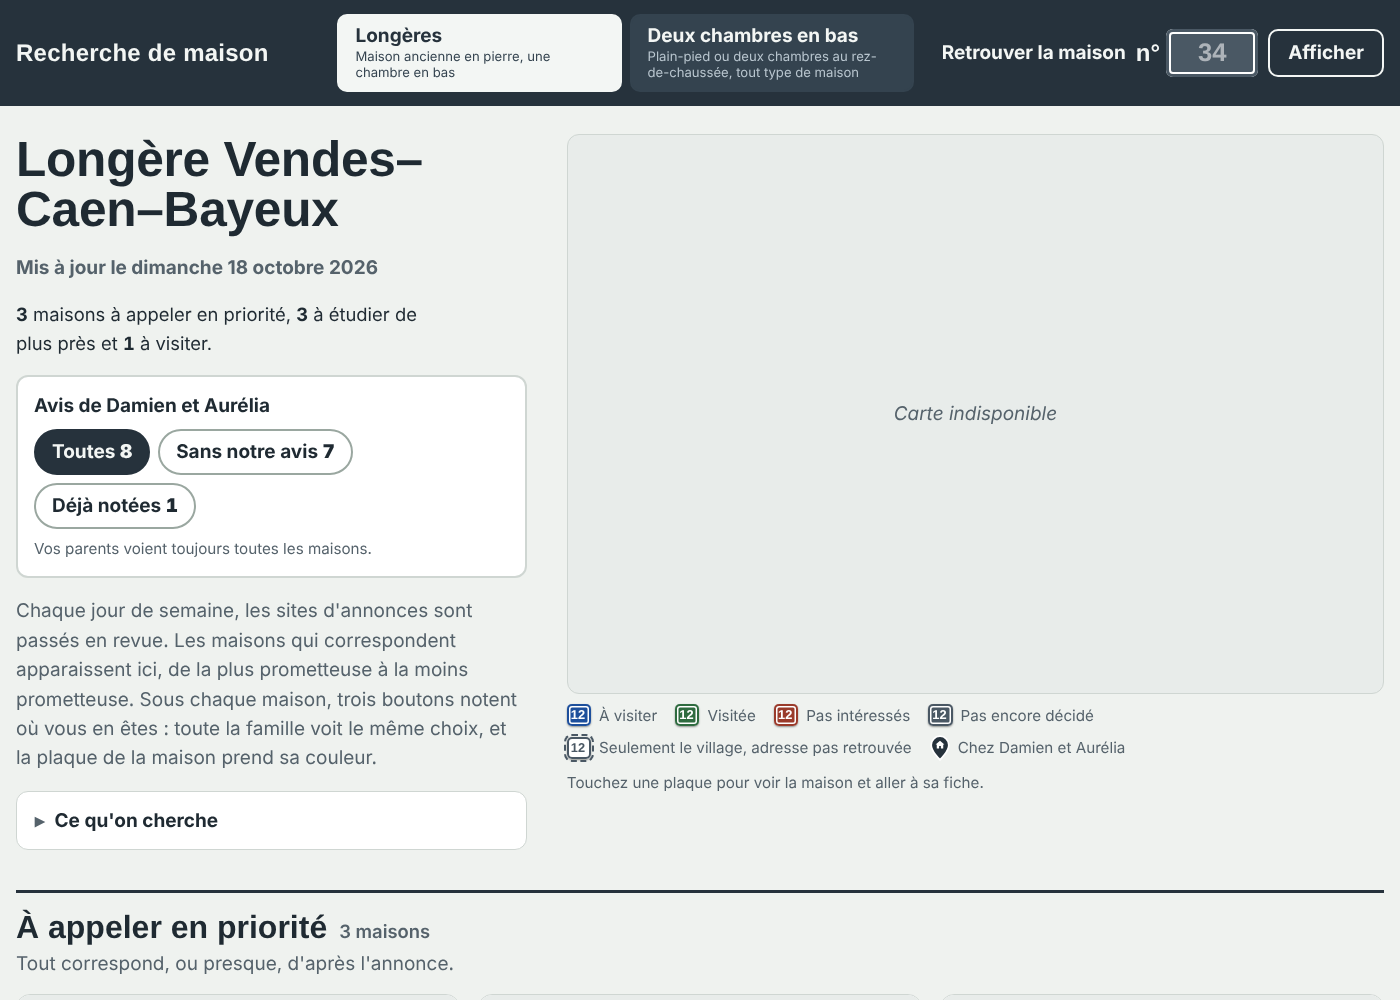
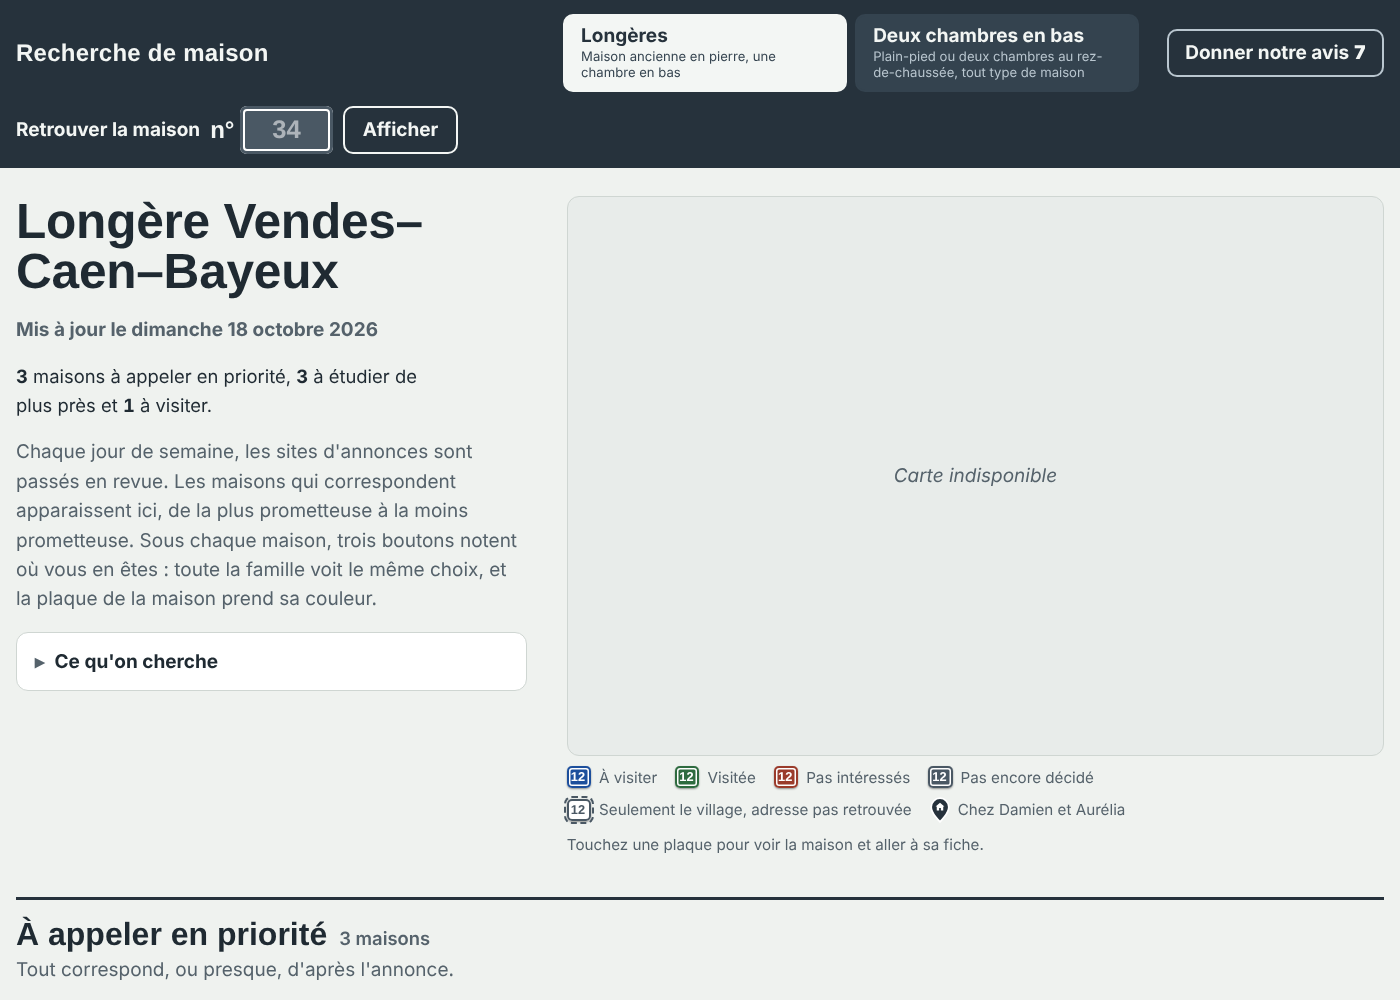
Fiches alignées : chaque bloc commence à la même hauteur sur toute la ligne (sous-grille)
Claude-Session: https://claude.ai/code/session_01PXESGSXEaTdATurt53iu5k

diff --git a/maison/index.html b/maison/index.html
@@ -148,6 +148,13 @@ details.bloc > div { padding: 0 18px 18px; display: grid; gap: 14px; }
 details.groupe-replie > summary { font: 700 1.5rem/1.1 var(--f-plaque); padding: 16px 18px; }
 details.groupe-replie > summary .nb { font: 600 1.05rem/1 var(--f-texte); color: var(--gris); }
 .list { display: grid; gap: 22px 18px; grid-template-columns: repeat(auto-fill, minmax(min(380px, 100%), 1fr)); align-items: start; }
+/* Fiches alignées : chaque fiche prend 10 rangées de la liste (photo, en-tête, statut, avis, critères, adresse,
+   carte, questions, liens, date) ; un même bloc commence à la même hauteur sur toute la ligne. */
+@supports (grid-template-rows: subgrid) {
+  .list { align-items: stretch; }
+  .card { grid-row: span 10; grid-template-rows: subgrid; row-gap: 0; }
+  .card > .corps { grid-row: 2 / span 9; grid-template-rows: subgrid; }
+}
 .vide { color: var(--gris); font-style: italic; }
 .vide-filtre { padding: 18px; border-radius: 12px; border: 2px dashed var(--trait-fort); color: var(--gris); }
 /* Mode tri, réservé à Damien et Aurélia : la page normale n'est jamais modifiée */
@@ -174,7 +181,7 @@ details.groupe-replie > summary .nb { font: 600 1.05rem/1 var(--f-texte); color:
 .gal-prec { left: 10px; } .gal-suiv { right: 10px; }
 .gal-n { position: absolute; z-index: 2; right: 10px; bottom: 10px; padding: 2px 10px; border-radius: 999px; background: rgba(20, 28, 34, .7); color: #fff; font-weight: 700; font-size: .92rem; font-variant-numeric: tabular-nums; }
 .galerie.ko::after { content: "Photo indisponible"; position: absolute; inset: 0; display: grid; place-items: center; background: var(--unk-bg); color: var(--gris); }
-.corps { padding: 40px 18px 18px; display: grid; gap: 16px; }
+.corps { padding: 40px 18px 18px; display: grid; gap: 16px; align-content: start; }
 .card:not(:has(.illu .plaque)) .corps { padding-top: 18px; }
 .tete { display: grid; gap: 6px; }
 .badges { display: flex; flex-wrap: wrap; gap: 6px; }
@@ -232,7 +239,7 @@ details.groupe-replie > summary .nb { font: 600 1.05rem/1 var(--f-texte); color:
 
 /* Critères : un symbole par état, la couleur ne porte pas seule l'information */
 .crit { list-style: none; margin: 0; padding: 0; display: grid; grid-template-columns: 1fr; gap: 2px 16px; }
-.corps { container-type: inline-size; }
+.crit-zone { container-type: inline-size; } /* pas sur .corps : un conteneur de requête ne peut pas être une sous-grille */
 @container (min-width: 340px) { .crit { grid-template-columns: 1fr 1fr; } }
 .c { display: grid; grid-template-columns: 1.6em 1fr; gap: 0 8px; padding: 7px 0; border-bottom: 1px solid var(--trait); font-size: 1rem; line-height: 1.38; }
 .c .sym { grid-row: 1 / span 2; width: 1.45em; height: 1.45em; border-radius: 50%; display: grid; place-items: center; font-weight: 700; font-size: .92rem; color: var(--papier); margin-top: 1px; }
@@ -626,14 +633,14 @@ function carte(b) {
           ${b.surface ? `<span class="surface">${esc(b.surface)} m² habitables${parM2}</span>` : ""}
         </div>
       </div>
-      ${b.etat === "active" ? boutons(b) : ""}
-      ${b.etat === "active" ? avisHtml(b) : ""}
-      <ul class="crit">
+      <div class="slot">${b.etat === "active" ? boutons(b) : ""}</div>
+      <div class="slot">${b.etat === "active" ? avisHtml(b) : ""}</div>
+      <div class="crit-zone"><ul class="crit">
         ${Object.keys(CRIT).map(k => { const c = (b.crit || {})[k] || ["unk", "Non indiqué"]; const s = SYM[c[0]] || SYM.unk; return `<li class="c ${c[0]}"><span class="sym" aria-hidden="true">${s[0]}</span><span class="k">${esc((D.libelles || {})[k] || CRIT[k])}<span class="sr"> : ${s[1]}</span></span><span class="v">${esc(c[1])}</span></li>`; }).join("")}
-      </ul>
-      ${blocAdresse(b)}
+      </ul></div>
+      <div class="slot">${blocAdresse(b)}</div>
       <details class="ou"><summary>Voir où elle se trouve</summary><div class="carte" data-carte="${esc(b.id)}"></div><p data-carte-note="${esc(b.id)}"></p></details>
-      ${(b.verifier || []).length ? `<div class="questions"><strong>À demander à l'agence</strong><ul>${b.verifier.map(v => `<li>${esc(v)}</li>`).join("")}</ul></div>` : ""}
+      <div class="slot">${(b.verifier || []).length ? `<div class="questions"><strong>À demander à l'agence</strong><ul>${b.verifier.map(v => `<li>${esc(v)}</li>`).join("")}</ul></div>` : ""}</div>
       <div class="liens">${liens}</div>
       <div class="dates">Repérée le ${jour(b.repere_le)}</div>
     </div>
